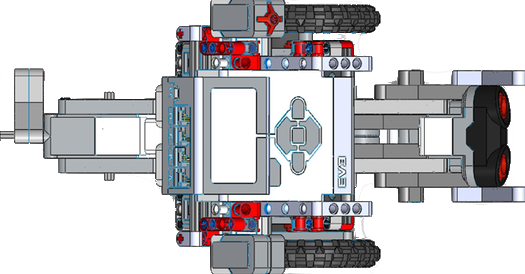
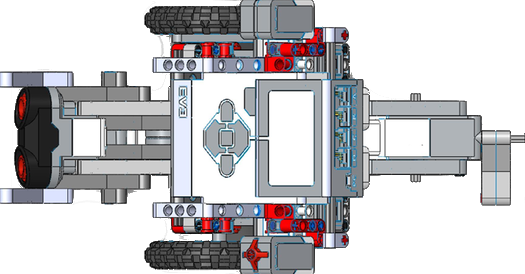
走行体の描画が走行体の実態とずれるバグを修正

diff --git a/ET2017-TuningTool/View/MainView.xaml b/ET2017-TuningTool/View/MainView.xaml
@@ -230,7 +230,7 @@
                         <Label Margin="100,0,278,291" Content="座標 Y : " />
                         <Label Margin="146,0"  Width="50" Height="26" Content="{Binding SelfPositionRobotPosRaw.Value.Y}" HorizontalContentAlignment="Right" VerticalAlignment="Top" HorizontalAlignment="Left"/>
                         <Label Margin="200,0,198,291" Content="方向 : " />
-                        <Label Margin="239,0,0,0"  Width="36" Height="26" Content="{Binding SelfPositionRobotAngle.Value}" HorizontalContentAlignment="Right" VerticalAlignment="Top" HorizontalAlignment="Left"/>
+                        <Label Margin="239,0,0,0"  Width="36" Height="26" Content="{Binding SelfPositionRobotAngleRaw.Value}" HorizontalContentAlignment="Right" VerticalAlignment="Top" HorizontalAlignment="Left"/>
                         <Canvas HorizontalAlignment="Left" VerticalAlignment="Top"  Margin="0,25,0,0">
                             <Image Source="/ET2017-TuningTool;component/Image/Field.png" HorizontalAlignment="Left" Width="451" Height="296" VerticalAlignment="Top" />
                             <Image RenderTransformOrigin="0.5,0.5" Source="/ET2017-TuningTool;component/Image/robot.png"  HorizontalAlignment="Left"

diff --git a/ET2017-TuningTool/ViewModel/MainViewModel.cs b/ET2017-TuningTool/ViewModel/MainViewModel.cs
@@ -124,9 +124,15 @@ namespace ET2017_TuningTool
         public ReactiveProperty<Point> SelfPositionRobotPosRaw { get; }
 
         /// <summary>
-        /// 自己位置推定結果におけるロボットの角度情報
+        /// 自己位置推定結果におけるロボットの角度情報(描画用)
         /// </summary>
         public ReactiveProperty<int> SelfPositionRobotAngle { get; }
+
+
+        /// <summary>
+        /// 自己位置推定結果によるロボットの角度情報
+        /// </summary>
+        public ReactiveProperty<int> SelfPositionRobotAngleRaw { get; }
 
         /// <summary>
         /// 運搬対象ブロックに接近する際の運搬経路のパス
@@ -333,13 +339,17 @@ namespace ET2017_TuningTool
                                          .ToReactiveProperty().AddTo(this.Disposable);
         
             SelfPositionRobotAngle = Serial.ObserveProperty(s => s.RecentSelfPositionData)
-                                         .Select(t => (int)t.Angle)
+                                         .Select(t => (int)t.Angle * -1)
                                          .ToReactiveProperty().AddTo(this.Disposable);
 
             //自己位置情報の更新を登録（生データ）
             SelfPositionRobotPosRaw = Serial.ObserveProperty(s => s.RecentSelfPositionData)
                                          .Select(t => new Point(t.PositionX , t.PositionY))
                                          .ToReactiveProperty().AddTo(this.Disposable);
+            
+            SelfPositionRobotAngleRaw = Serial.ObserveProperty(s => s.RecentSelfPositionData)
+                             .Select(t => (int)t.Angle)
+                             .ToReactiveProperty().AddTo(this.Disposable);
 
 
             // 接続コマンド押下イベントを定義
